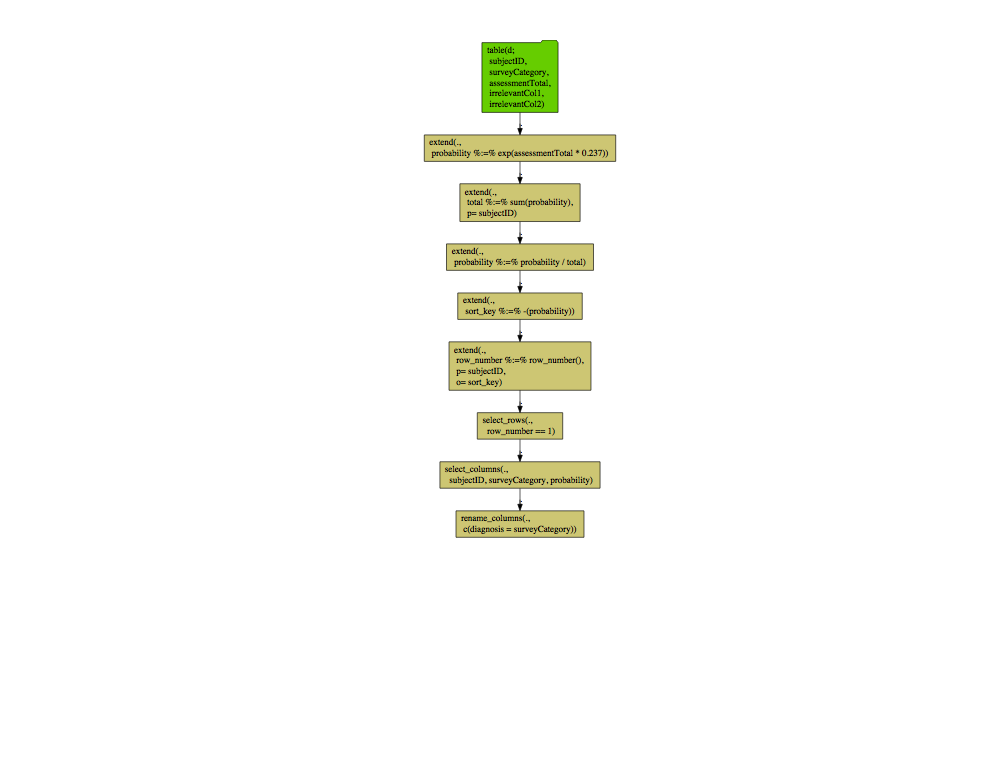
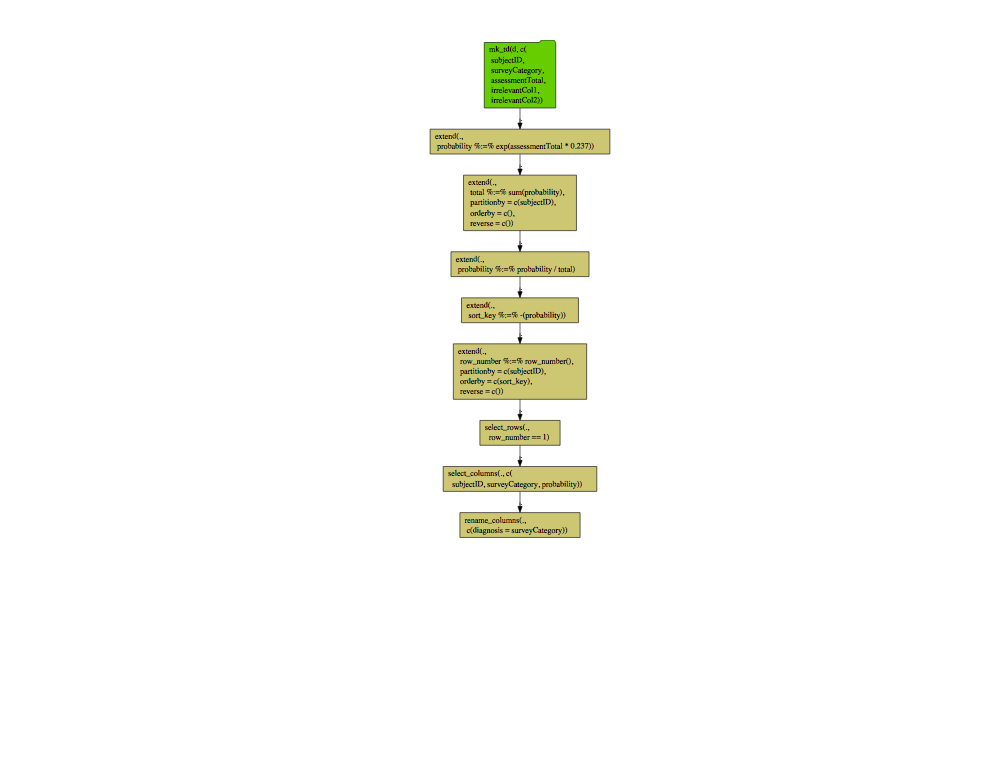
re-run example

Changed region(s): [[0.403, 0.0625, 0.62, 0.7188]]

diff --git a/Examples/LogisticExample/ScoringExample.html b/Examples/LogisticExample/ScoringExample.html
@@ -13572,22 +13572,22 @@ Also note: case in columns is a bit of nightmare.  It is often best to lower-cas
 
 
 <div class="output_subarea output_stream output_stdout output_text">
-<pre>SELECT &#34;probability&#34;,
-       &#34;subjectid&#34;,
+<pre>SELECT &#34;subjectid&#34;,
+       &#34;probability&#34;,
        &#34;surveycategory&#34; AS &#34;diagnosis&#34;
 FROM
-  (SELECT &#34;probability&#34;,
-          &#34;subjectid&#34;,
+  (SELECT &#34;subjectid&#34;,
+          &#34;probability&#34;,
           &#34;surveycategory&#34;
    FROM
-     (SELECT &#34;probability&#34;,
-             &#34;subjectid&#34;,
+     (SELECT &#34;subjectid&#34;,
+             &#34;probability&#34;,
              &#34;surveycategory&#34;
       FROM
-        (SELECT &#34;surveycategory&#34;,
+        (SELECT &#34;sort_key&#34;,
                 &#34;subjectid&#34;,
-                &#34;sort_key&#34;,
                 &#34;probability&#34;,
+                &#34;surveycategory&#34;,
                 ROW_NUMBER() OVER (PARTITION BY &#34;subjectid&#34;
                                    ORDER BY &#34;sort_key&#34;) AS &#34;row_number&#34;
          FROM
@@ -13672,22 +13672,22 @@ FROM
   <thead>
     <tr style="text-align: right;">
       <th></th>
-      <th>probability</th>
       <th>subjectid</th>
+      <th>probability</th>
       <th>diagnosis</th>
     </tr>
   </thead>
   <tbody>
     <tr>
       <th>0</th>
-      <td>0.670622</td>
       <td>1.0</td>
+      <td>0.670622</td>
       <td>withdrawal behavior</td>
     </tr>
     <tr>
       <th>1</th>
-      <td>0.558974</td>
       <td>2.0</td>
+      <td>0.558974</td>
       <td>positive re-framing</td>
     </tr>
   </tbody>
@@ -14349,15 +14349,15 @@ FROM (
          &#34;assessmentTotal&#34;
         FROM
          &#34;d&#34;
-        ) tsql_21995480598153962875_0000000000
-       ) tsql_21995480598153962875_0000000001
-      ) tsql_21995480598153962875_0000000002
-     ) tsql_21995480598153962875_0000000003
-    ) tsql_21995480598153962875_0000000004
-  ) tsql_21995480598153962875_0000000005
+        ) tsql_85982078297649144292_0000000000
+       ) tsql_85982078297649144292_0000000001
+      ) tsql_85982078297649144292_0000000002
+     ) tsql_85982078297649144292_0000000003
+    ) tsql_85982078297649144292_0000000004
+  ) tsql_85982078297649144292_0000000005
   WHERE &#34;row_number&#34; = 1
- ) tsql_21995480598153962875_0000000006
-) tsql_21995480598153962875_0000000007
+ ) tsql_85982078297649144292_0000000006
+) tsql_85982078297649144292_0000000007
 </pre>
 </div>
 </div>

diff --git a/Examples/LogisticExample/ScoringExample.md b/Examples/LogisticExample/ScoringExample.md
@@ -340,22 +340,22 @@ sql = ops.to_sql(db_model, pretty=True)
 print(sql)
 ```
 
-    SELECT "probability",
-           "subjectid",
+    SELECT "subjectid",
+           "probability",
            "surveycategory" AS "diagnosis"
     FROM
-      (SELECT "probability",
-              "subjectid",
+      (SELECT "subjectid",
+              "probability",
               "surveycategory"
        FROM
-         (SELECT "probability",
-                 "subjectid",
+         (SELECT "subjectid",
+                 "probability",
                  "surveycategory"
           FROM
-            (SELECT "surveycategory",
+            (SELECT "sort_key",
                     "subjectid",
-                    "sort_key",
                     "probability",
+                    "surveycategory",
                     ROW_NUMBER() OVER (PARTITION BY "subjectid"
                                        ORDER BY "sort_key") AS "row_number"
              FROM
@@ -414,22 +414,22 @@ db_model.read_query(conn, sql)
   <thead>
     <tr style="text-align: right;">
       <th></th>
-      <th>probability</th>
       <th>subjectid</th>
+      <th>probability</th>
       <th>diagnosis</th>
     </tr>
   </thead>
   <tbody>
     <tr>
       <th>0</th>
-      <td>0.670622</td>
       <td>1.0</td>
+      <td>0.670622</td>
       <td>withdrawal behavior</td>
     </tr>
     <tr>
       <th>1</th>
-      <td>0.558974</td>
       <td>2.0</td>
+      <td>0.558974</td>
       <td>positive re-framing</td>
     </tr>
   </tbody>
@@ -851,15 +851,15 @@ cat(sql)
              "assessmentTotal"
             FROM
              "d"
-            ) tsql_21995480598153962875_0000000000
-           ) tsql_21995480598153962875_0000000001
-          ) tsql_21995480598153962875_0000000002
-         ) tsql_21995480598153962875_0000000003
-        ) tsql_21995480598153962875_0000000004
-      ) tsql_21995480598153962875_0000000005
+            ) tsql_85982078297649144292_0000000000
+           ) tsql_85982078297649144292_0000000001
+          ) tsql_85982078297649144292_0000000002
+         ) tsql_85982078297649144292_0000000003
+        ) tsql_85982078297649144292_0000000004
+      ) tsql_85982078297649144292_0000000005
       WHERE "row_number" = 1
-     ) tsql_21995480598153962875_0000000006
-    ) tsql_21995480598153962875_0000000007
+     ) tsql_85982078297649144292_0000000006
+    ) tsql_85982078297649144292_0000000007
 
 
 The `R` implementation is mature, and appropriate to use in production.  The [`rquery`](https://github.com/WinVector/rquery) grammar is designed to have minimal state and minimal annotations (no grouping or ordering annotations!).  This makes the grammar, in my opinion, a good design choice. `rquery` has very good performance, often much faster than `dplyr` or base-`R` due to its query generation ideas and use of [`data.table`](https://CRAN.R-project.org/package=data.table) via [`rqdatatable`](https://CRAN.R-project.org/package=rqdatatable).  `rquery` is a mature pure `R` package; [here](https://github.com/WinVector/rquery/blob/master/README.md) is the same example being worked directly in `R`, with no translation from `Python`. 

diff --git a/Examples/LogisticExample/BuildDiagram.md b/Examples/LogisticExample/BuildDiagram.md
@@ -12,29 +12,32 @@ r_ops <- convert_yaml_to_pipeline(r_yaml)
 cat(format(r_ops))
 ```
 
-    ## table(d; 
-    ##   subjectID,
-    ##   surveyCategory,
-    ##   assessmentTotal,
-    ##   irrelevantCol1,
-    ##   irrelevantCol2) %.>%
+    ## mk_td("d", c(
+    ##   "subjectID",
+    ##   "surveyCategory",
+    ##   "assessmentTotal",
+    ##   "irrelevantCol1",
+    ##   "irrelevantCol2")) %.>%
     ##  extend(.,
     ##   probability %:=% exp(assessmentTotal * 0.237)) %.>%
     ##  extend(.,
     ##   total %:=% sum(probability),
-    ##   p= subjectID) %.>%
+    ##   partitionby = c('subjectID'),
+    ##   orderby = c(),
+    ##   reverse = c()) %.>%
     ##  extend(.,
     ##   probability %:=% probability / total) %.>%
     ##  extend(.,
     ##   sort_key %:=% -(probability)) %.>%
     ##  extend(.,
     ##   row_number %:=% row_number(),
-    ##   p= subjectID,
-    ##   o= "sort_key") %.>%
+    ##   partitionby = c('subjectID'),
+    ##   orderby = c('sort_key'),
+    ##   reverse = c()) %.>%
     ##  select_rows(.,
     ##    row_number == 1) %.>%
-    ##  select_columns(.,
-    ##    subjectID, surveyCategory, probability) %.>%
+    ##  select_columns(., c(
+    ##    "subjectID", "surveyCategory", "probability")) %.>%
     ##  rename_columns(.,
     ##   c('diagnosis' = 'surveyCategory'))
 
